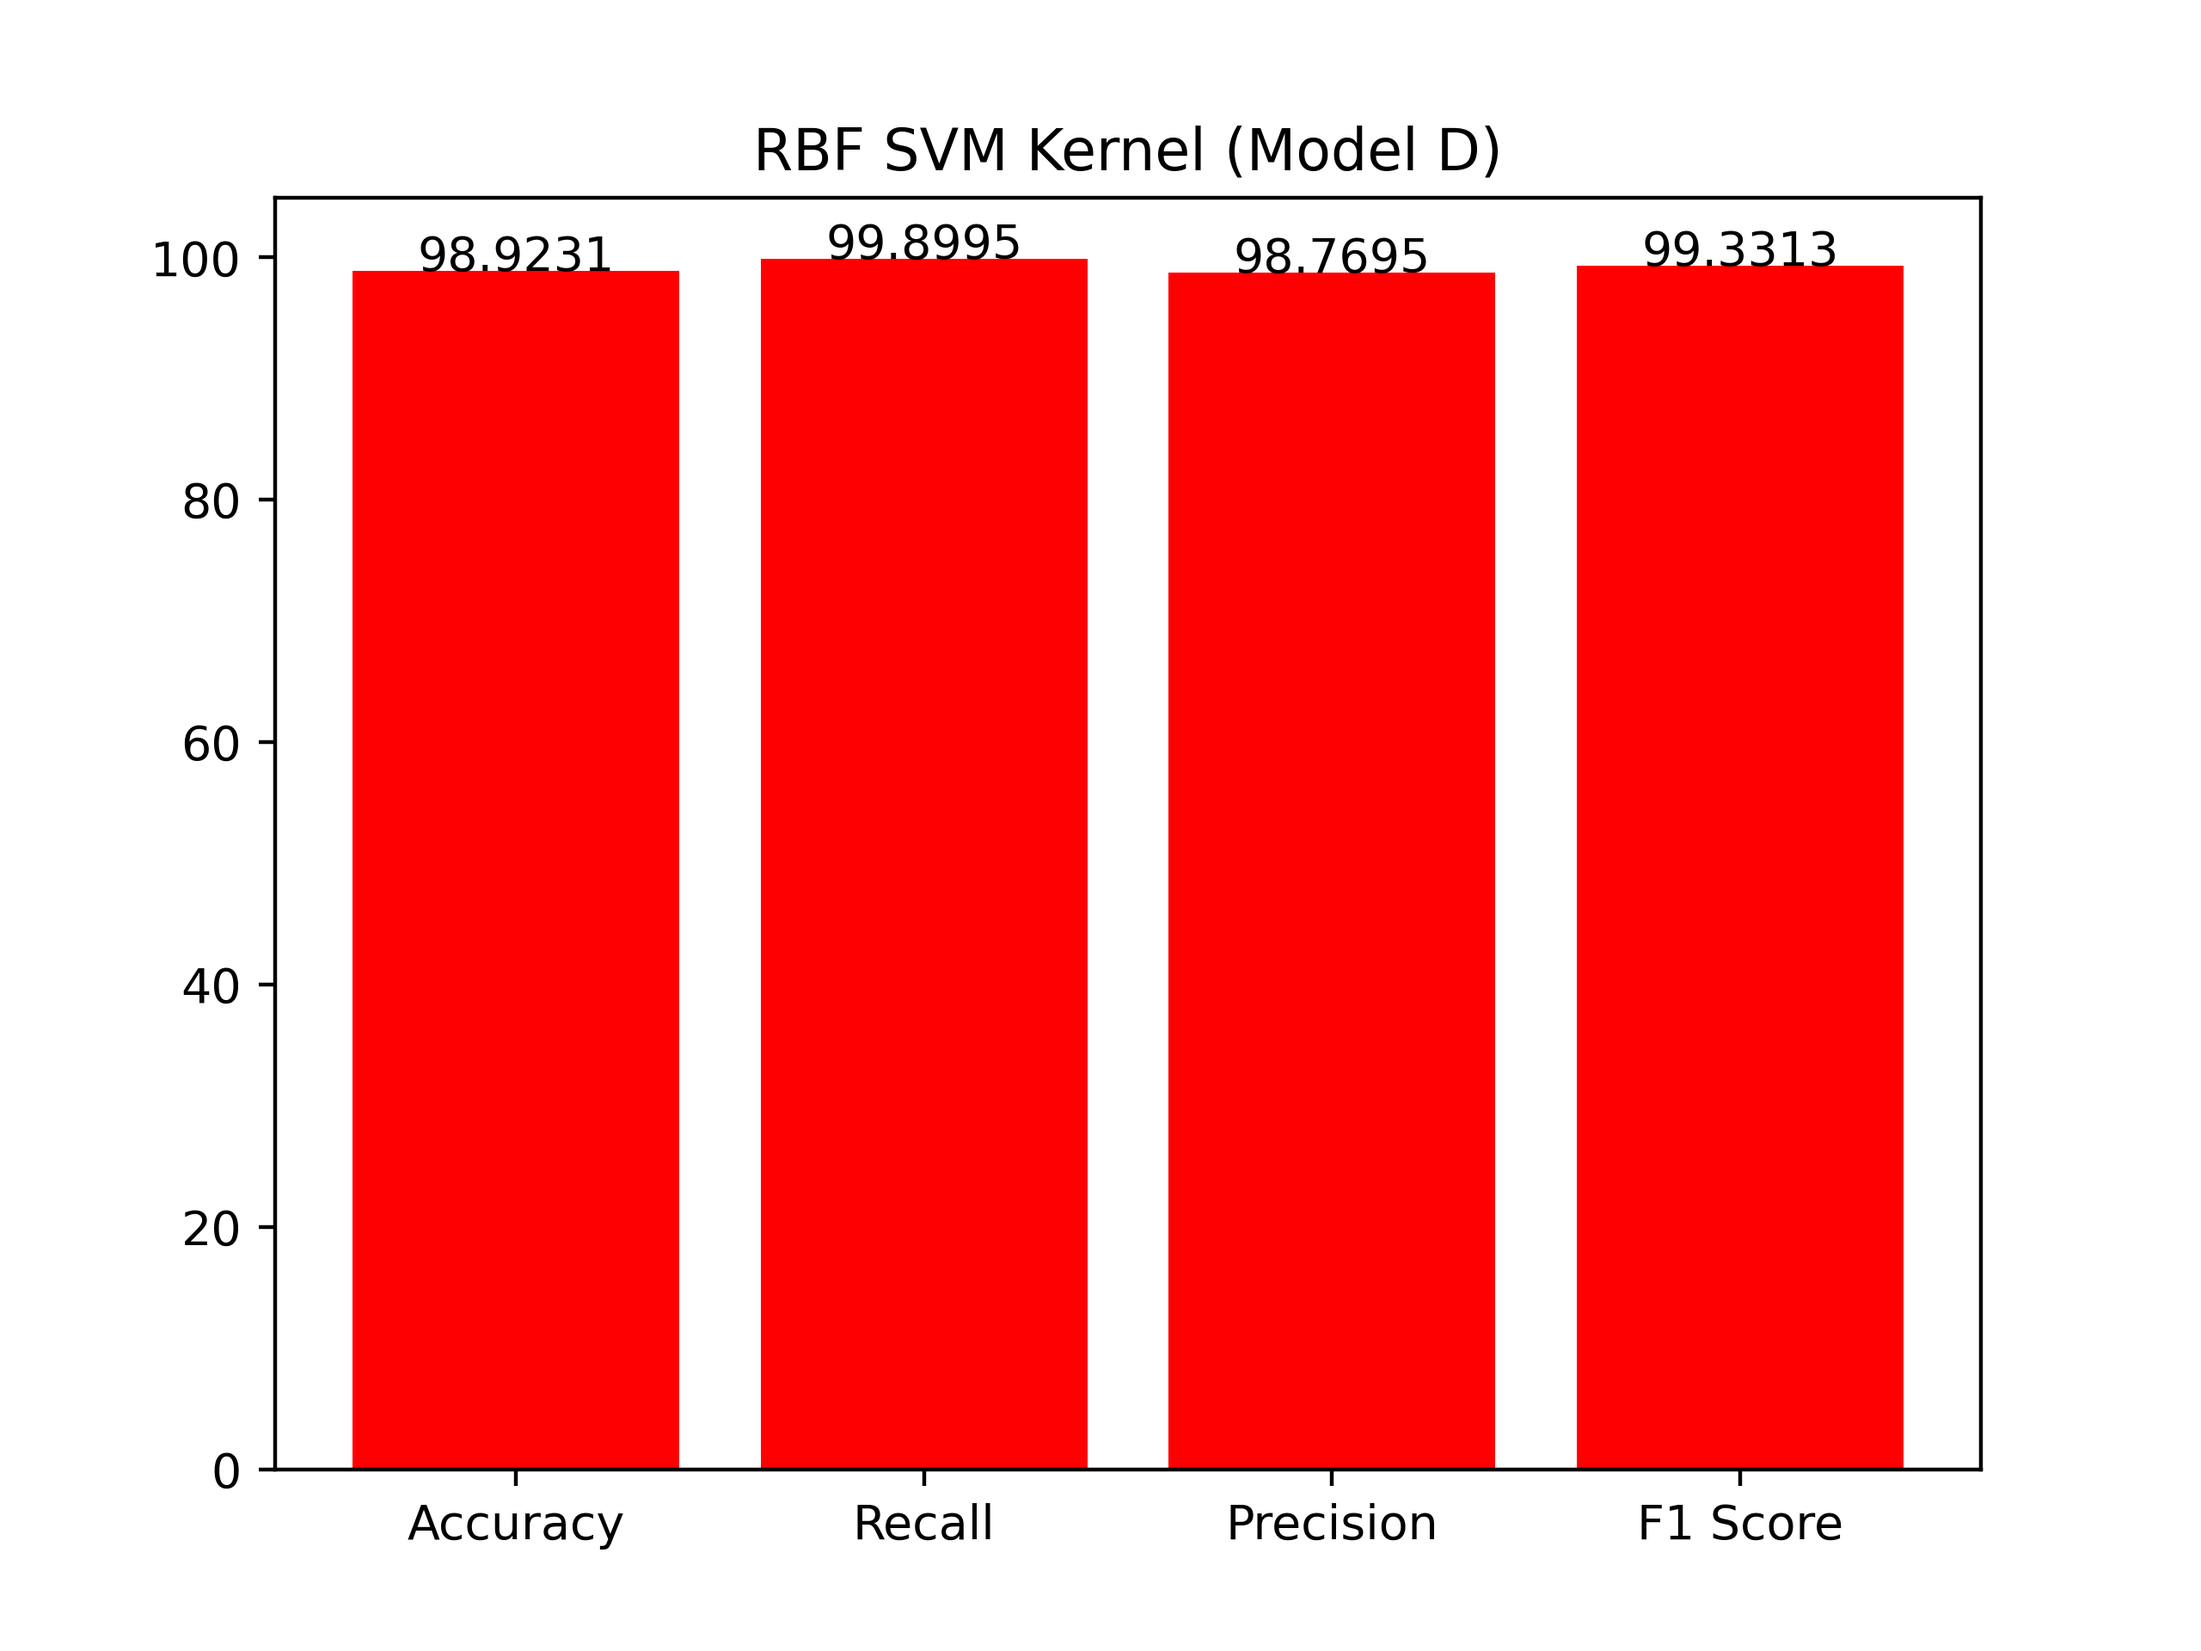
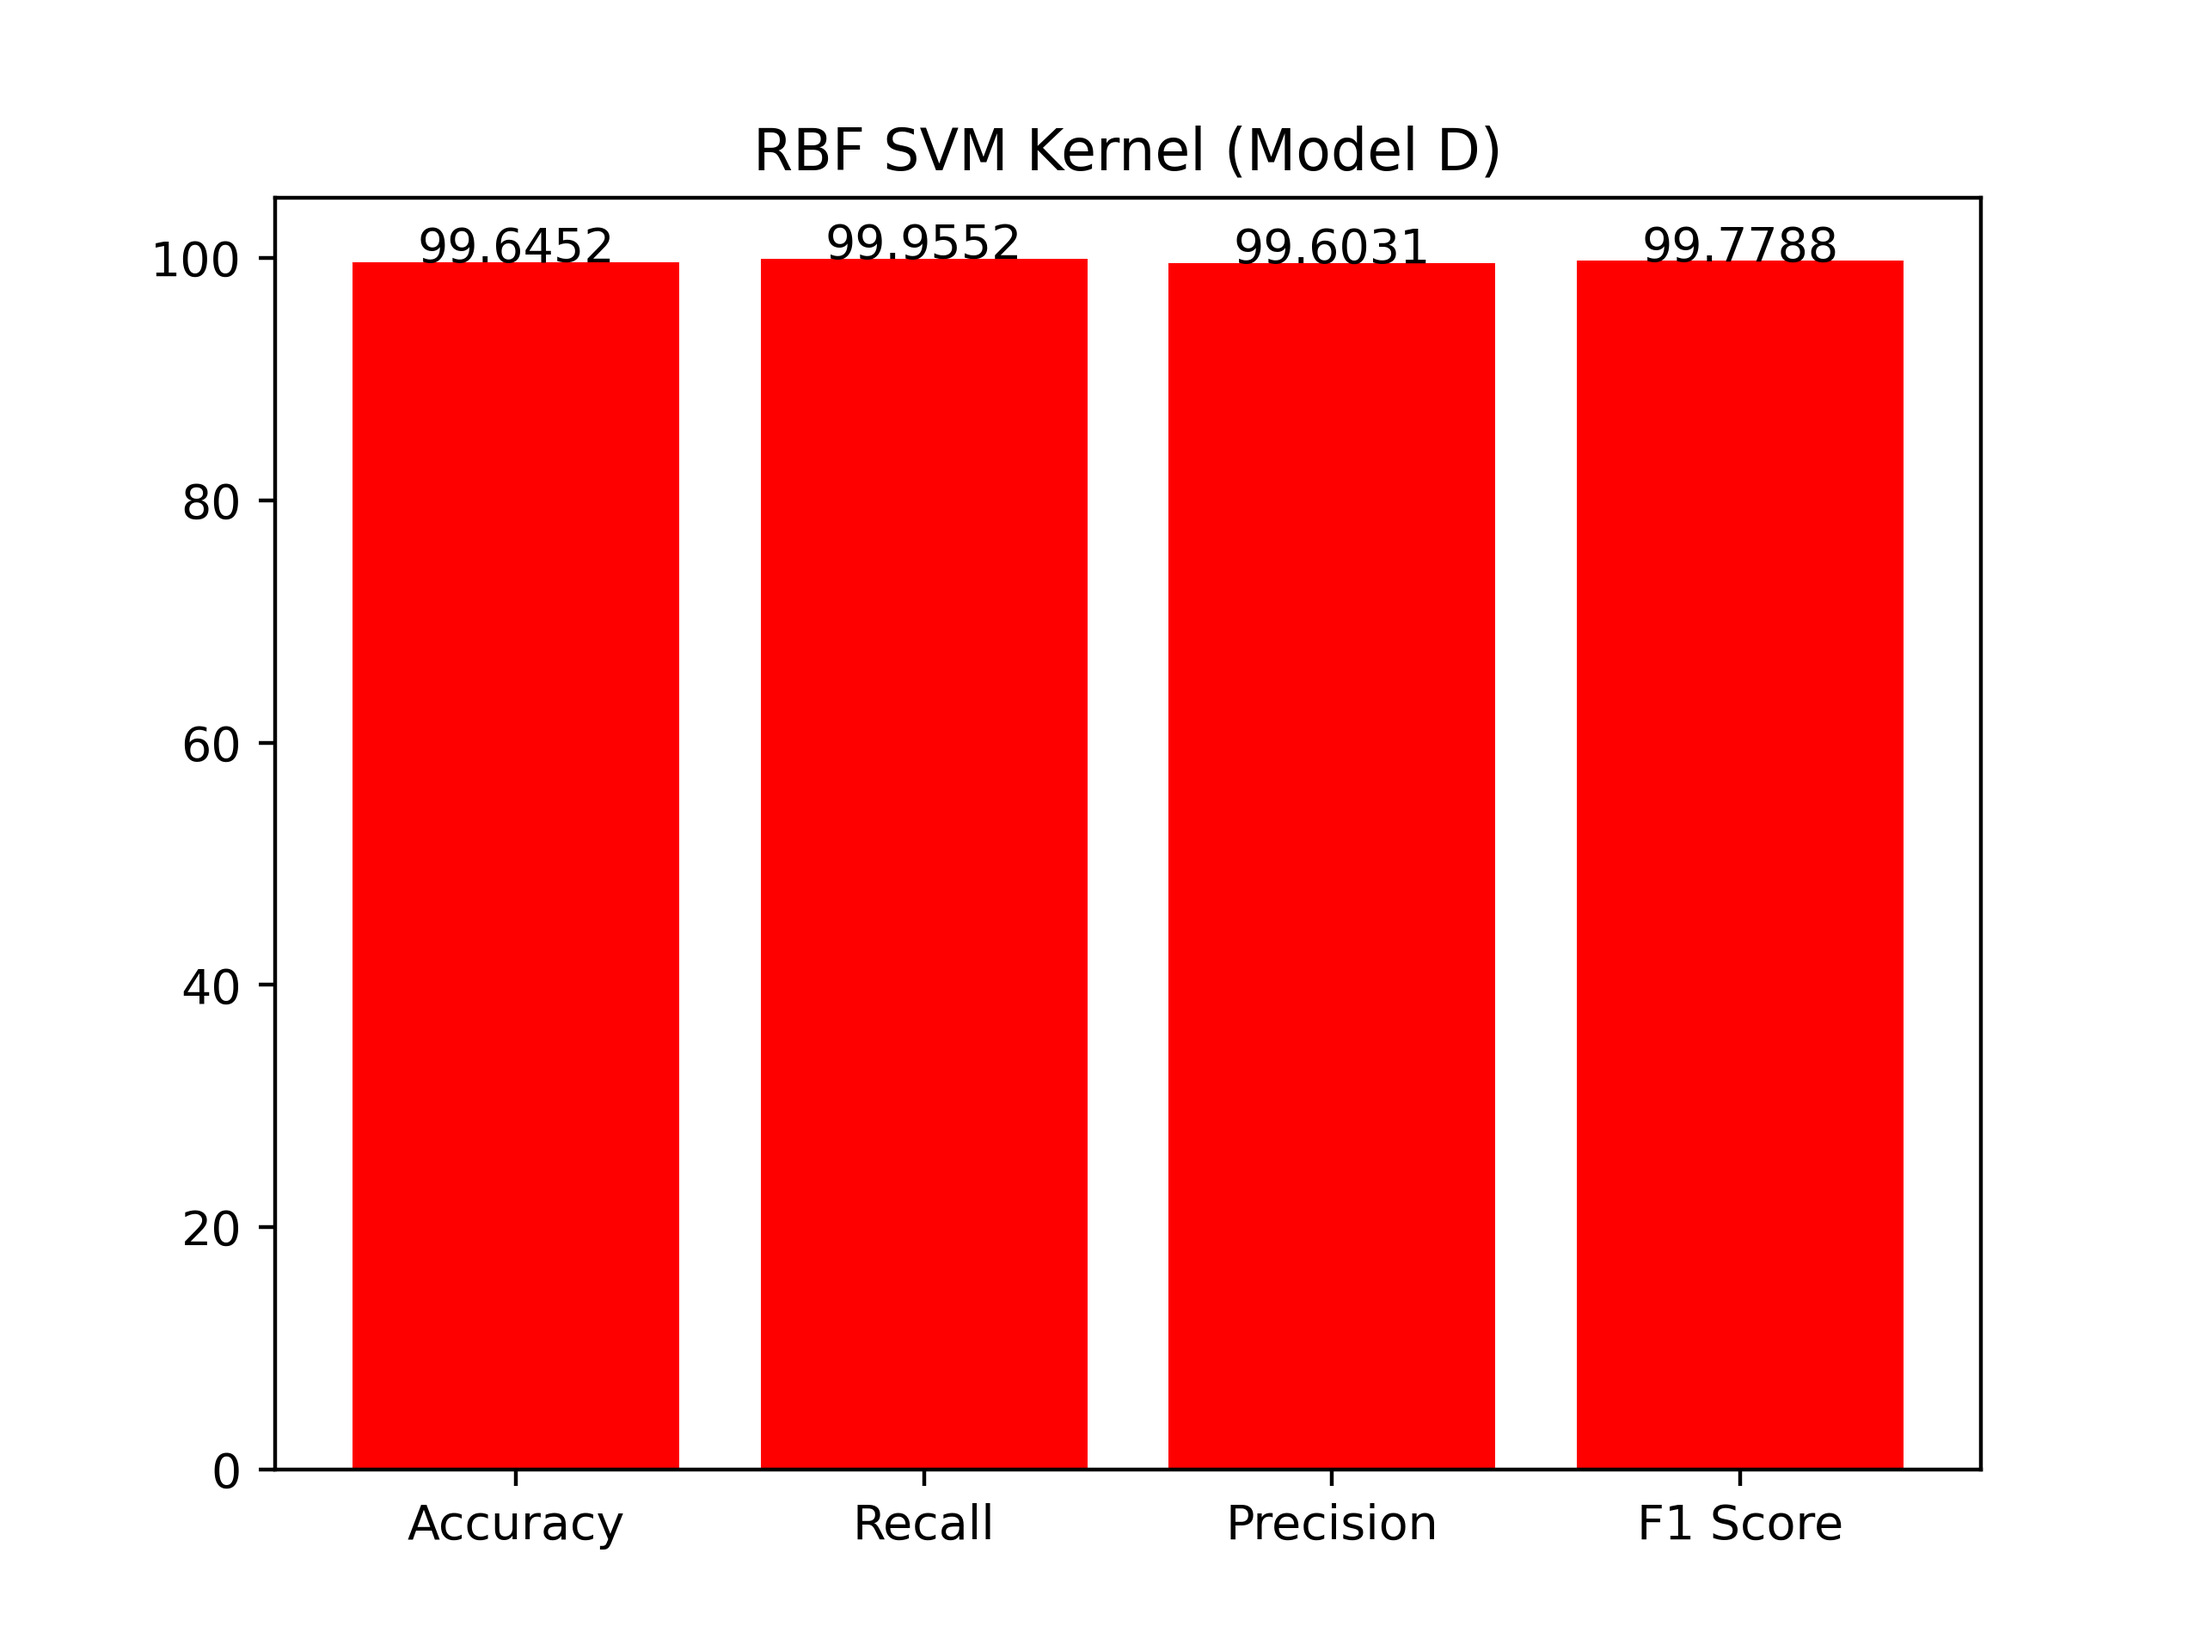
fix graphs, add new graphs

diff --git a/Metrics/Graphs/classifierGraphs.py b/Metrics/Graphs/classifierGraphs.py
@@ -87,7 +87,7 @@ values_rf = list(rf_data.values())
 x_rf = list(rf_data.keys())
 y_rf = [round (value * 100, 4) for value in values_rf]
 
-create_simple_bar_graph(x=x_rf, y=y_rf, value_labels=True, colour="Red", title="Increased Forest No. RF Metrics (Model F)", save_path="Metrics/Graphs/pngs/rfMetrics.png", dpi=400)
+create_simple_bar_graph(x=x_rf, y=y_rf, value_labels=True, colour="Red", title="Random Forest Metrics where n=200 (Model F)", save_path="Metrics/Graphs/pngs/rfMetrics.png", dpi=400)
 
 # Random Forest Pre-Optimised
 
@@ -104,11 +104,11 @@ pre_optimised_values_rf = list(pre_optimised_rf_data.values())
 x_preop_rf = list(pre_optimised_rf_data.keys())
 y_preop_rf = [round (value * 100, 4) for value in pre_optimised_values_rf]
 
-create_simple_bar_graph(x=x_preop_rf, y=y_preop_rf, value_labels=True, colour="Red", title="Pre-Optimised Random Forest Metrics (Model E)", save_path="Metrics/Graphs/pngs/preOptimisedRfMetrics.png", dpi=400)
+create_simple_bar_graph(x=x_preop_rf, y=y_preop_rf, value_labels=True, colour="Red", title="Random Forest Metrics where  n=100 (Model E)", save_path="Metrics/Graphs/pngs/preOptimisedRfMetrics.png", dpi=400)
 
 # DNN
 
-with open("DL/DNN/metricsWithDropout.json", 'r') as file:
+with open("DL/DNN/metricsWithDropout2.json", 'r') as file:
     dnn_data = json.load(file)
 
 # removing training time from json
@@ -142,7 +142,7 @@ create_simple_bar_graph(x=x_preop_dnn, y=y_preop_dnn, value_labels=True, colour=
 
 # dnn with early stopping, dropout, and extra layers
 
-with open("DL/DNN/metricsWithDropoutSeveralLayers.json", 'r') as file:
+with open("DL/DNN/metricsWithDropoutSeveralLayers2.json", 'r') as file:
     several_layers_dnn_data = json.load(file)
 
 # removing training time from json
@@ -159,7 +159,7 @@ create_simple_bar_graph(x=x_svrl_dnn, y=y_svrl_dnn, value_labels=True, colour="R
 
 # CNN
 
-with open("DL/CNN/optimizedMetricsWithDropout.json", 'r') as file:
+with open("DL/CNN/optimizedMetricsWithDropoutAndEarlyStopping2.json", 'r') as file:
     cnn_data = json.load(file)
 
 # removing training time from json
@@ -193,7 +193,7 @@ create_simple_bar_graph(x=x_preop_cnn, y=y_preop_cnn, value_labels=True, colour=
 
 # CNN with early stopping
 
-with open("DL/CNN/metricsWithEarlyStopping.json", 'r') as file:
+with open("DL/CNN/optimizedMetricsWithEarlyStopping2.json", 'r') as file:
     early_stopping_cnn_data = json.load(file)
 
 # removing training time from json
@@ -211,8 +211,8 @@ create_simple_bar_graph(x=x_es_cnn, y=y_es_cnn, value_labels=True, colour="Red",
 # Training Times graph
 
 training_times = {
-    "A" : linear_svc_training_time_data,
-    "B" : linear_kernel_training_time_data,
+    "A" : linear_kernel_training_time_data,
+    "B" : linear_svc_training_time_data,
     "C" : poly_kernel_training_time_data,
     "D" : rbf_kernel_training_time_data,
     "E" : pre_optimised_rf_training_time_data,
@@ -221,8 +221,8 @@ training_times = {
     "H" : dnn_training_time_data,
     "I" : several_layers_dnn_training_time_data,
     "J" : pre_optimised_cnn_training_time_data,
-    "K" : cnn_training_time_data,
-    "L" : early_stopping_cnn_training_time_data
+    "K" : early_stopping_cnn_training_time_data,
+    "L" : cnn_training_time_data
 }
 
 values_times = list(training_times.values())
@@ -230,7 +230,7 @@ values_times = list(training_times.values())
 x_times = list(training_times.keys())
 y_times = [round(value, 1) for value in values_times]
 
-create_simple_bar_graph(x=x_times, y=y_times, value_labels=True, colour="Blue", title="All Training Times (seconds)", save_path="Metrics/Graphs/pngs/allTrainingTimesMetrics.png", dpi=400)
+create_simple_bar_graph(x=x_times, y=y_times, value_labels=True, colour="Blue", title="All Training Times (seconds)", save_path="Metrics/Graphs/pngs/Times/allTrainingTimesMetrics.png", dpi=400)
 
 # Pre Optimised Training Times graph
 
@@ -246,7 +246,7 @@ pre_optimised_values_times = list(pre_op_training_times.values())
 x_preop_times = list(pre_op_training_times.keys())
 y_preop_times = [round(value, 2) for value in pre_optimised_values_times]
 
-create_simple_bar_graph(x=x_preop_times, y=y_preop_times, value_labels=True, colour="Blue", title="Pre-Optimised Training Times (seconds)", save_path="Metrics/Graphs/pngs/preOptimisedTrainingTimesMetrics.png", dpi=400)
+create_simple_bar_graph(x=x_preop_times, y=y_preop_times, value_labels=True, colour="Blue", title="Pre-Optimised Training Times (seconds)", save_path="Metrics/Graphs/pngs/Times/preOptimisedTrainingTimesMetrics.png", dpi=400)
 
 # Fastest Training Times
 
@@ -259,7 +259,67 @@ fastest_training_times = {
 
 fastest_training_times_values = list(fastest_training_times.values())
 
-x_fastest_times = list(pre_op_training_times.keys())
+x_fastest_times = list(fastest_training_times.keys())
 y_fastest_times = [round(value, 2) for value in fastest_training_times_values]
 
-create_simple_bar_graph(x=x_fastest_times, y=y_fastest_times, value_labels=True, colour="Blue", title="Fastest Training Times (seconds)", save_path="Metrics/Graphs/pngs/fastestTrainingTimes.png", dpi=400)
+create_simple_bar_graph(x=x_fastest_times, y=y_fastest_times, value_labels=True, colour="Blue", title="Fastest Training Times (seconds)", save_path="Metrics/Graphs/pngs/Times/fastestTrainingTimes.png", dpi=400)
+
+# SVM training times
+
+svm_training_times = {
+    "Model A" : linear_kernel_training_time_data,
+    "Model B" : linear_svc_training_time_data,
+    "Model C" : poly_kernel_training_time_data,
+    "Model D" : rbf_kernel_training_time_data
+}
+
+svm_training_times_values = list(svm_training_times.values())
+
+x_svm_training_times = list(svm_training_times.keys())
+y_svm_training_times = [round(value, 2) for value in svm_training_times_values]
+
+create_simple_bar_graph(x=x_svm_training_times, y=y_svm_training_times, value_labels=True, colour="Blue", title="SVM Training Times (seconds)", save_path="Metrics/Graphs/pngs/Times/svmTrainingTimes", dpi=400)
+
+# RF training times
+
+rf_training_times = {
+    "Model E" : pre_optimised_rf_training_time_data,
+    "Model F" : rf_training_time_data
+}
+
+rf_training_times_values = list(rf_training_times.values())
+
+x_rf_training_times = list(rf_training_times.keys())
+y_rf_training_times = [round(value, 2) for value in rf_training_times_values]
+
+create_simple_bar_graph(x=x_rf_training_times, y=y_rf_training_times, value_labels=True, colour="Blue", title="RF Training Times (seconds)", save_path="Metrics/Graphs/pngs/Times/rfTrainingTimes", dpi=400)
+
+# DNN training times
+
+dnn_training_times = {
+    "Model G" : pre_optimised_dnn_training_time_data,
+    "Model H" : dnn_training_time_data,
+    "Model I" : several_layers_dnn_training_time_data
+}
+
+dnn_training_times_values = list(dnn_training_times.values())
+
+x_dnn_training_times = list(dnn_training_times.keys())
+y_dnn_training_times = [round(value, 2) for value in dnn_training_times_values]
+
+create_simple_bar_graph(x=x_dnn_training_times, y=y_dnn_training_times, value_labels=True, colour="Blue", title="DNN Training Times (seconds)", save_path="Metrics/Graphs/pngs/Times/dnnTrainingTimes", dpi=400)
+
+# CNN training times
+
+cnn_training_times = {
+    "Model J" : pre_optimised_cnn_training_time_data,
+    "Model K" : early_stopping_cnn_training_time_data,
+    "Model L" : cnn_training_time_data
+}
+
+cnn_training_times_values = list(cnn_training_times.values())
+
+x_cnn_training_times = list(cnn_training_times.keys())
+y_cnn_training_times = [round(value, 2) for value in cnn_training_times_values]
+
+create_simple_bar_graph(x=x_cnn_training_times, y=y_cnn_training_times, value_labels=True, colour="Blue", title="CNN Training Times (seconds)", save_path="Metrics/Graphs/pngs/Times/cnnTrainingTimes", dpi=400)

diff --git a/ML/SVM/svcRbfKernel.py b/ML/SVM/svcRbfKernel.py
@@ -26,65 +26,63 @@ X_test_scaled = min_max_scaler.transform(X_test)
 
 # fit to classifier
 
-classifier = SVC(kernel="rbf")
+classifier = SVC(kernel="rbf", C=0.1, gamma=1)
 
-# # find optimal parameters for svc
-
-# start = time.time()
-# classifier.fit(X_train_scaled, Y_train)
-# stop = time.time()
+start = time.time()
+classifier.fit(X_train_scaled, Y_train)
+stop = time.time()
 
 # #predictions using metrics
 
-# predictions = classifier.predict(X_test_scaled)
+predictions = classifier.predict(X_test_scaled)
 
-# accuracy = metrics.accuracy_score(Y_test, predictions)
-# recall = metrics.recall_score(Y_test, predictions)
-# precision = metrics.precision_score(Y_test, predictions)
-# f1_score = metrics.f1_score(Y_test, predictions)
-# training_time = stop - start
+accuracy = metrics.accuracy_score(Y_test, predictions)
+recall = metrics.recall_score(Y_test, predictions)
+precision = metrics.precision_score(Y_test, predictions)
+f1_score = metrics.f1_score(Y_test, predictions)
+training_time = stop - start
 
 # # checking for overfitting with train dataset
 
-# training_predictions = classifier.predict(X_train_scaled)
-# train_accuracy = metrics.accuracy_score(Y_train, training_predictions)
+training_predictions = classifier.predict(X_train_scaled)
+train_accuracy = metrics.accuracy_score(Y_train, training_predictions)
 
 # # cross validation
 
-# cross_val = cross_val_score(classifier, X_train_scaled, Y_train, cv=5)
+cross_val = cross_val_score(classifier, X_train_scaled, Y_train, cv=5)
 
 # # write metrics to obj
 
-# metrics_obj = {
-#     "Accuracy": accuracy,
-#     "Recall": recall,
-#     "Precision": precision,
-#     "F1 Score": f1_score,
-#     "Training Time": training_time
-# }
+metrics_obj = {
+    "Accuracy": accuracy,
+    "Recall": recall,
+    "Precision": precision,
+    "F1 Score": f1_score,
+    "Training Time": training_time
+}
 
 # # write metrics to file
 
-# with open("./ML/SVM/SVCRbfKernelMetrics.json", "w") as json_file:
-#     json.dump(metrics_obj, json_file, indent=4)
+with open("./ML/SVM/SVCRbfKernelMetrics.json", "w") as json_file:
+    json.dump(metrics_obj, json_file, indent=4)
 
-# print("Metrics written to file in folder")
-# print("Training accuracy:", train_accuracy, "Testing accuracy:", accuracy)
-# # print(support_vectors)
-# # print(support_vectors_per_class)
+print("Metrics written to file in folder")
+print("Training accuracy:", train_accuracy, "Testing accuracy:", accuracy)
+# print(support_vectors)
+# print(support_vectors_per_class)
 
-# print(f'Cross-validation scores: {cross_val}')
-# print(f'Mean CV Score: {cross_val.mean()}')
+print(f'Cross-validation scores: {cross_val}')
+print(f'Mean CV Score: {cross_val.mean()}')
 
 # find optimal parameters for svc
 
-param_grid = {
-    'C': [0.1, 1, 10],
-    'gamma': [0.01, 0.1, 1]
-}
+# param_grid = {
+#     'C': [0.1, 1, 10],
+#     'gamma': [0.01, 0.1, 1]
+# }
 
-grid_search = GridSearchCV(classifier, param_grid, cv=3, verbose=2, n_jobs=-1)
-grid_search.fit(X_train, Y_train)
+# grid_search = GridSearchCV(classifier, param_grid, cv=3, verbose=2, n_jobs=-1)
+# grid_search.fit(X_train, Y_train)
 
-best_params = grid_search.best_params_
-print(f"Best parameters: {best_params}") # optimal params are C=0.1 and gamma=0.1
+# best_params = grid_search.best_params_
+# print(f"Best parameters: {best_params}") # optimal params are C=0.1 and gamma=1

diff --git a/ML/SVM/svmMain.py b/ML/SVM/svmMain.py
@@ -67,8 +67,7 @@ with open("./ML/SVM/linearSVCMetrics.json", "w") as json_file:
 
 print("Metrics written to file in folder")
 print("Training accuracy:", train_accuracy, "Testing accuracy:", accuracy)
-print(support_vectors)
-print(support_vectors_per_class)
+
 
 print(f'Cross-validation scores: {cross_val}')
 print(f'Mean CV Score: {cross_val.mean()}')

diff --git a/ML/RandomForest/rfMain.py b/ML/RandomForest/rfMain.py
@@ -1,6 +1,7 @@
 import pandas as pd
 import time
 import json
+
 from sklearn import preprocessing
 from sklearn.ensemble import RandomForestClassifier
 from sklearn import metrics

diff --git a/Metrics/Graphs/cumulativeGraph.py b/Metrics/Graphs/cumulativeGraph.py
@@ -22,3 +22,6 @@ create_grouped_bar_graph(
     save_path="Metrics/Graphs/pngs/cumulatedMetrics.png", 
     dpi=800
     )
+
+## SVM
+
